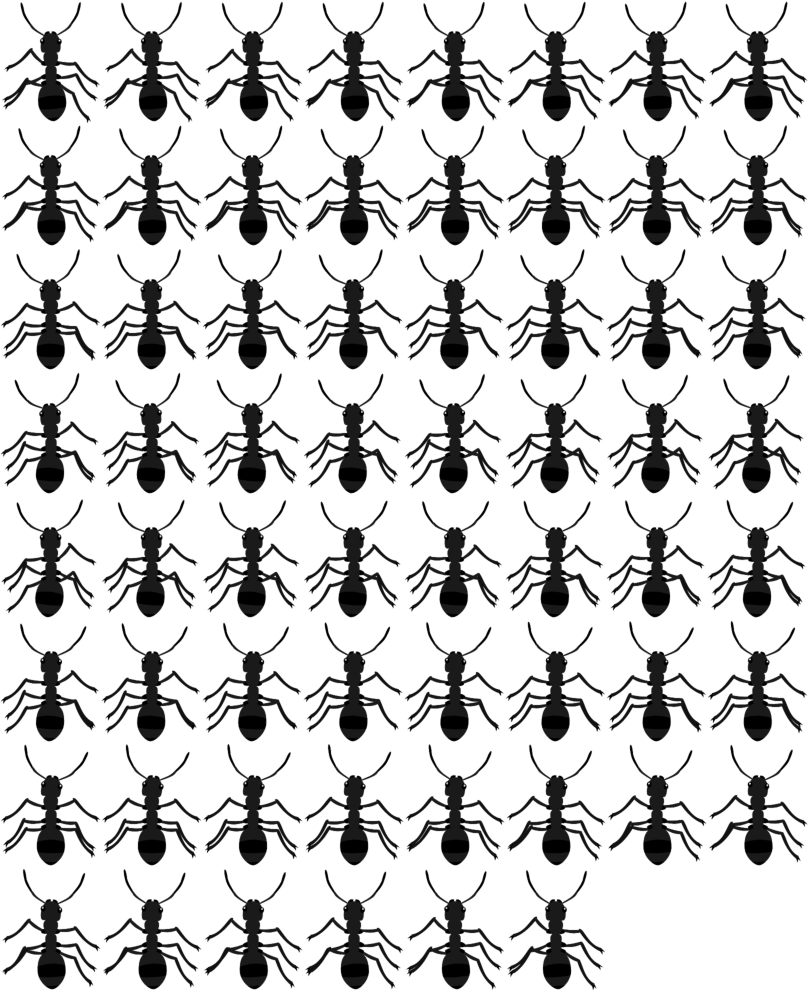
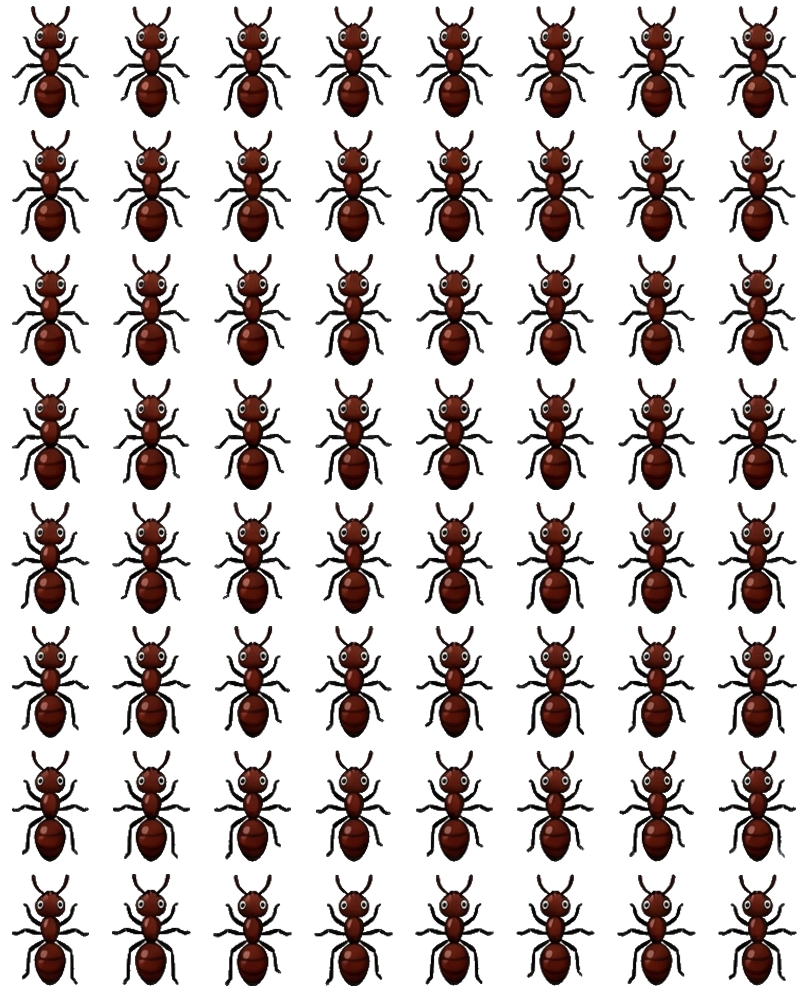
feat(visuals): redesign sprites to vibrant cartoon style and add juice animations
Replace the visual assets with a cohesive vibrant 2D cartoon picnic aesthetic:
- Redesign grass.png with lush green cartoon turf and daisy accents.
- Redesign trayWithCompleteClothe.png with a polished wooden frame and classic red/white gingham tablecloth.
- Redesign food.png with a complete 5x5 grid of 25 colorful, appetizing picnic food treats and enable all frames.
- Redesign ant_sheet.png with a 64-frame top-down cartoon ant walk cycle.
- Add tumble/spin rotation tween in Ant.kill() when ants fall off the tray.
- Add nibble wiggle and flying crumb burst particles in Food.beingEat().

diff --git a/objects/food.ts b/objects/food.ts
@@ -21,8 +21,7 @@ export class Food extends MySprite {
         // this.setOffset(17)
         this.setCircle(10,7,8)
 
-        // this.setFrame(Phaser.Math.Between(0,24))
-        this.setFrame(Phaser.Math.RND.pick([0,1,9,10,11,13,15,17,20,23,24]))
+        this.setFrame(Phaser.Math.Between(0, 24));
 
         // this.on('animationcomplete', this.destroy, this);
         this.init();
@@ -74,13 +73,52 @@ export class Food extends MySprite {
     beingEat() {
         if (this.body.enable && !this.isBeingEaten) {
             this.isBeingEaten = true;
+            this.emitCrumbs();
+            this.scene.time.delayedCall(400, () => {
+                if (this.scene && !this.scene.gameOver && this.isBeingEaten) {
+                    this.emitCrumbs();
+                }
+            });
             // Guard against multiple collision callbacks starting duplicate eat animations.
+            // Combine scale shrink and nibble wiggle in a single tween so tween counting remains exact.
             this.scene.tweens.add({
                 targets: this, 
                 scale: { value: 0, duration: 1500, ease: 'Power1' },
+                angle: { value: '+=12', duration: 110, yoyo: true, repeat: 6, ease: 'Sine.easeInOut' },
                 yoyo: false,
                 loop: 0,
                 onComplete: () => this.destroy()
+            });
+        }
+    }
+
+    private emitCrumbs() {
+        if (!this.scene?.add || this.scene.gameOver) {
+            return;
+        }
+        const crumbPalette = [0xffd166, 0xffa07a, 0xf4a261, 0xe76f51, 0xffbe0b];
+        for (let i = 0; i < 5; i++) {
+            const color = Phaser.Math.RND.pick(crumbPalette);
+            const crumb = this.scene.add.circle(
+                this.x + Phaser.Math.Between(-6, 6),
+                this.y + Phaser.Math.Between(-6, 6),
+                Phaser.Math.Between(2, 3),
+                color
+            );
+            crumb.setDepth(1);
+            const destX = crumb.x + Phaser.Math.Between(-18, 18);
+            const destY = crumb.y + Phaser.Math.Between(-18, 18);
+            this.scene.tweens.add({
+                targets: crumb,
+                x: destX,
+                y: destY,
+                alpha: 0,
+                scale: 0.2,
+                duration: 550,
+                ease: 'Cubic.easeOut',
+                onComplete: () => {
+                    crumb.destroy();
+                }
             });
         }
     }

diff --git a/objects/ant.ts b/objects/ant.ts
@@ -137,9 +137,11 @@ export class Ant extends MySprite {
         // Report the escape once, then animate the ant before returning it to the tray.
         this.scene.antDied(this);
         
+        const spinDirection = Phaser.Math.Between(0, 1) === 0 ? -1 : 1;
         this.scene.tweens.add({
             targets: this, 
-            scale: { value: 0.01, duration: 750 },
+            scale: { value: 0.01, duration: 750, ease: 'Power2' },
+            angle: { value: this.angle + spinDirection * 540, duration: 750, ease: 'Power2' },
             yoyo: true,
             loop: 0,
             onYoyo: () => {
